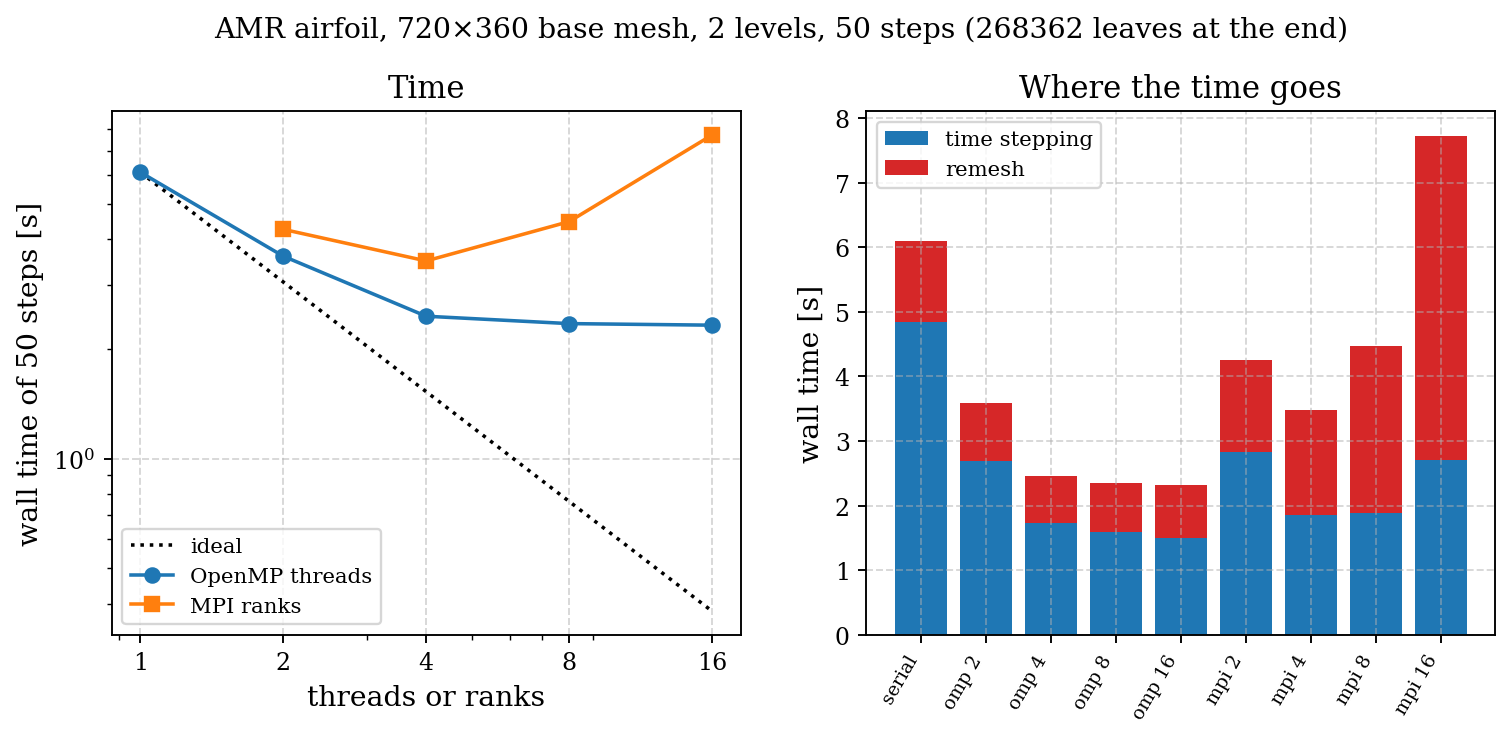
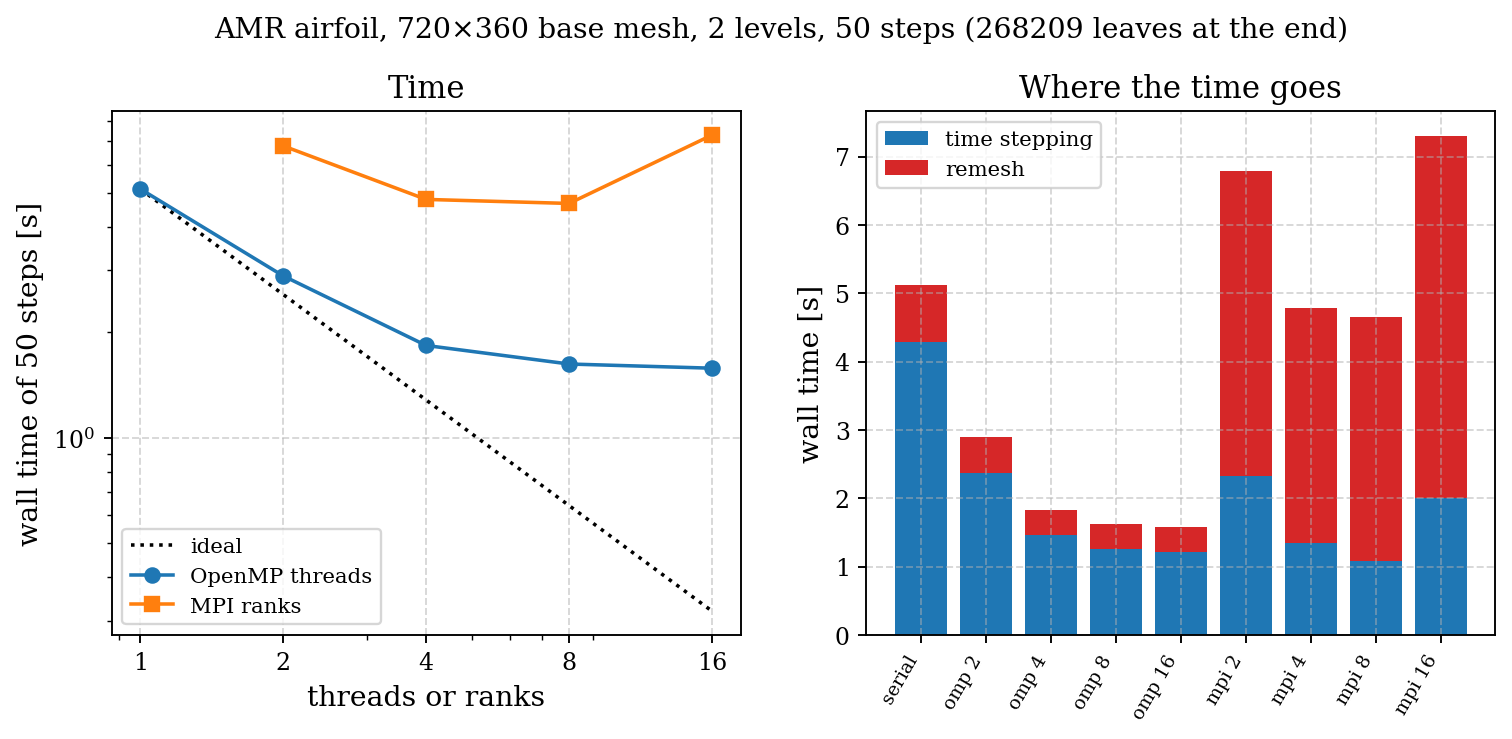
AMR page: one formulation for d = 2 and 3 (the quadtree as the particular case), a section on what adaptivity buys, and Cost and scaling measured against the uniform solver on the same finest mesh (amr_advantage.py: airfoil 24-37x faster, sphere 3-5x), the OpenMP / MPI scaling with the current build

diff --git a/cases/validation/amr/amr_advantage.py b/cases/validation/amr/amr_advantage.py
@@ -1,0 +1,98 @@
+"""What the adaptive mesh buys: time and memory against a uniform mesh of the same finest resolution, on 1 to 16 threads.
+
+    python cases/validation/amr/amr_advantage.py            # results/validation/amr_advantage/
+    python cases/validation/amr/amr_advantage.py --docs     # also docs/img/amr_advantage.png
+
+The 2-D IBM airfoil (Re 1000, 720 x 360 base mesh, two levels: 2880 x 1440 at the finest level, the airfoil and the wake refined)
+is run by the adaptive solver for 50 coarse steps and by the uniform solver on the 2880 x 1440 mesh for the same simulated time
+(the uniform step is the finest-level step, a quarter of the coarse one: 200 steps). Both on 1, 2, 4, 8 and 16 OpenMP threads,
+the same machine, one run each. Printed: the wall time of the time loop, the simulated time reached (they must agree), the cells
+against the leaves and the resident memory.
+
+The figure plots the wall time against the threads for both: the adaptive curve lies below the uniform one at every thread
+count; the gap narrows slowly (the adaptive step parallelises less well than the uniform one) but stays large.
+The 3-D octree sphere of octree_q8.py (time loop 0.2-0.3 of the uniform solver) is drawn beside it.
+"""
+import json
+
+import numpy as np
+
+import fenice
+from fenice import study
+
+STUDY, CASE = "amr_advantage", "IBM Airfoil AMR"
+THREADS = [1, 2, 4, 8, 16]
+STEPS_AMR, STEPS_UNI = 50, 200
+AMR_SETS = ("nx=720", "ny=360", f"max_steps={STEPS_AMR}")
+UNI_SETS = ("use_amr=false", "nx=2880", "ny=1440", f"max_steps={STEPS_UNI}")
+
+
+def measure(args, tag, sets, threads):
+    d = study.study_dir(STUDY) / tag
+    info = d / "info.json"
+    if args.force or not info.exists():
+        d.mkdir(parents=True, exist_ok=True)
+        print(f"[RUN] {STUDY}/{tag}", flush=True)
+        r = fenice.run(CASE, *sets, "save_interval=1000000000", out_root=d, threads=threads, dump=d / "final.npz")
+        got = fenice.parse_summary(r.stdout)
+        dump = np.load(d / "final.npz")
+        rec = {"wall": got["wall"], "steps": got["steps"], "t": float(dump["t"]), "leaves": got.get("leaves"),
+               "remesh": got.get("remesh"), "memory": got.get("memory_max")}
+        info.write_text(json.dumps(rec))
+    return json.loads(info.read_text())
+
+
+def main():
+    args = study.parser(__doc__.splitlines()[0]).parse_args()
+    plt = study.use_style()
+    amr = {n: measure(args, f"amr_t{n}", AMR_SETS, n) for n in THREADS}
+    uni = {n: measure(args, f"uni_t{n}", UNI_SETS, n) for n in THREADS}
+    cells = 2880 * 1440
+    leaves = amr[1]["leaves"]
+    print(f"cells {cells}, leaves {leaves} ({100 * leaves / cells:.1f} %); simulated time AMR {amr[1]['t']:.4f}, uniform {uni[1]['t']:.4f}")
+    for n in THREADS:
+        a, u = amr[n], uni[n]
+        print(f"{n:2d} threads: AMR {a['wall']:7.1f} s (remesh {a['remesh']:.1f} s)   uniform {u['wall']:7.1f} s   "
+              f"ratio {a['wall'] / u['wall']:.3f} (uniform / AMR = {u['wall'] / a['wall']:.1f}x)")
+    for tag, r in (("AMR", amr[1]), ("uniform", uni[1])):
+        if r.get("memory"):
+            print(f"{tag} resident memory (peak, 1 thread): {r['memory']}")
+
+    fig, ax = plt.subplots(1, 2, figsize=(11.5, 4.6), gridspec_kw={"width_ratios": [1.5, 1]})
+    ax[0].loglog(THREADS, [uni[n]["wall"] for n in THREADS], "o-", color="#7f8c8d", lw=2, label=f"uniform {2880}x{1440} ({cells / 1e6:.1f} M cells)")
+    ax[0].loglog(THREADS, [amr[n]["wall"] for n in THREADS], "s-", color="#2a78d6", lw=2,
+                 label=f"adaptive, same finest mesh ({leaves / 1e3:.0f} k leaves)")
+    ax[0].loglog(THREADS, [amr[n]["wall"] - amr[n]["remesh"] for n in THREADS], "s--", color="#2a78d6", lw=1.2, alpha=0.7,
+                 label="adaptive, time stepping only")
+    ax[0].set_xticks(THREADS)
+    ax[0].set_xticklabels(THREADS)
+    ax[0].set_xlabel("OpenMP threads")
+    ax[0].set_ylabel("wall time, same simulated time [s]")
+    ax[0].set_title("Airfoil, Re 1000: time to the same finest-grid solution")
+    ax[0].legend(fontsize=8)
+    ax[0].grid(True, which="both", ls="--", alpha=0.4)
+    r16 = uni[16]["wall"] / amr[16]["wall"]
+    ax[0].text(11.5, (uni[16]["wall"] * amr[16]["wall"]) ** 0.5, f"{r16:.0f}x faster\non 16 threads", ha="center", va="center",
+               fontsize=10, color="#2a78d6")
+
+    names = ["airfoil 2-D\n(16 threads)", "sphere 3-D, Re 20\n(16 threads)"]
+    leaf_share = [leaves / cells, 72e3 / 432e3]
+    time_share = [amr[16]["wall"] / uni[16]["wall"], 0.25]   # sphere: octree_q8.py, time loop octree / uniform, mask and ghost wall
+    x = np.arange(2)
+    ax[1].bar(x - 0.18, leaf_share, 0.34, color="#eb6834", label="leaves / uniform cells")
+    ax[1].bar(x + 0.18, time_share, 0.34, color="#2a78d6", label="time / uniform time")
+    for xi, v in zip(x - 0.18, leaf_share):
+        ax[1].text(xi, v + 0.01, f"{v:.2f}", ha="center", fontsize=9)
+    for xi, v in zip(x + 0.18, time_share):
+        ax[1].text(xi, v + 0.01, f"{v:.2f}", ha="center", fontsize=9)
+    ax[1].set_xticks(x)
+    ax[1].set_xticklabels(names, fontsize=9)
+    ax[1].set_ylim(0, 0.5)
+    ax[1].set_title("Adaptive / uniform, same finest mesh")
+    ax[1].legend(fontsize=8)
+    plt.tight_layout()
+    study.save(fig, STUDY, "amr_advantage.png", args.docs)
+
+
+if __name__ == "__main__":
+    main()

diff --git a/docs/source/guide/performance.md b/docs/source/guide/performance.md
@@ -112,43 +112,7 @@ the Taylor-Green reference peak is 0.0127. The thread count never changes the re
 
 **Where the time goes.** `FENICE_PROFILE=1` prints the total time step and residual sections on uniform runs, including the time updates, viscous padding and conversion, viscous sweep, IBM forcing, body force and sources. It also prints the output and remesh sections on AMR runs (the region the indicator reads, the flags, the topology, the migration of the state, the rebuild of the share and its engine tables, the partition; inside the rebuild the fetch of the leaves, the mask, the partial mesh, the engine build, the partition and the localisation), with the minimum and maximum over the ranks. Sections are timed once per step or remesh, never per face. Nested sections are inclusive, so the total and its children must not be summed together. With the switch off, profile sections only take the cached flag check. An AMR time step is also split into the stage copy, the face fluxes (primitive state and virtual cells, convective faces, viscous cell quantities, viscous faces), the flux registers, the gather into the cell residuals, the forcing and the halo exchanges (`amr: ...`), and `fetch_leaves` into its frontier, classification, exchange, serving and collection (`fetch: ...`). On one node a single process on all threads is faster than MPI ranks: on a 3-D sphere with 72 k leaves, 200 steps took 6.6 s on 16 threads against 16 s on 8 ranks (the remesh is 11 % of the first and about half of the second). Use MPI to go beyond one node, not within it.
 
-## Where the AMR time goes (measured)
+## Adaptive meshes
 
-Ryzen 7 7800X3D (8 cores, 16 threads), `FENICE_PROFILE=1`. Times are wall seconds.
-
-**3-D octree, sphere** (Re 20, base mesh 5 cells per box edge, 2 levels, 72 k leaves, immersed mask, remesh every 4 steps).
-
-| Part of the time step (100 steps, 16 threads) | Time |
-|---|---:|
-| Whole time step | 2.6-2.7 s |
-| Convective faces | 0.87 s |
-| Viscous faces | 0.43 s |
-| Primitive state and virtual cells (`prepare`) | 0.43 s |
-| Rest: stage copy, flux registers, gather, forcing, exchanges | about 0.9 s |
-
-The virtual cells (means of the fine leaves under a coarse neighbour, interpolated values) are about 15 % of the step; they are evaluated for
-every level's call, and restricting them to the cells that level reads would gain a few percent on three levels. The step scales 7.4 times from 1 to 16 threads.
-
-| 200 steps | Time loop | Remesh share |
-|---|---:|---|
-| 16 threads, one process | 6.6 s | 7-11 % of the loop |
-| 8 MPI ranks | 16.1 s | about half (7.5 s of remesh) |
-| 4 MPI ranks | 19.3 s | |
-
-Inside the 7.5 s remesh on 8 ranks: the rebuild of each rank's share is 3.9 s, and within it the fetch of the leaves 2.0-2.3 s (its parts are
-the `fetch:` profile sections). The remesh is the limit of rank scaling; editing the share instead of rebuilding it is open work
-(`docs/design/weno-amr.md`).
-
-**2-D airfoil** (IBM, Re 1000, 192x96 base mesh, 2 levels, t = 20, 8 threads): the time loop takes 20.5 s, of which the remesh is 3.1 s.
-
-| Remesh part | Time |
-|---|---:|
-| Indicator | 0.98 s |
-| Engine build | 0.75 s |
-| Wave-speed bound | 0.71 s |
-| Adaptation of the mesh | 0.60 s |
-
-<img src="{{root}}img/amr_time_split.png" style="width:100%">
-
-The same splits as pie charts (`cases/validation/amr/time_split.py`). The slices "rest of the step", the time step of the two 200-step runs and the
-"rest" slices of the remesh are differences of measured totals.
+The cost of an adaptive run against the uniform solver on the same finest mesh, its scaling on threads and ranks and the split of its time
+(the step, the remesh, the fetch) are measured on the [AMR]({{root}}modules/AMR.html#cost-and-scaling) page.
